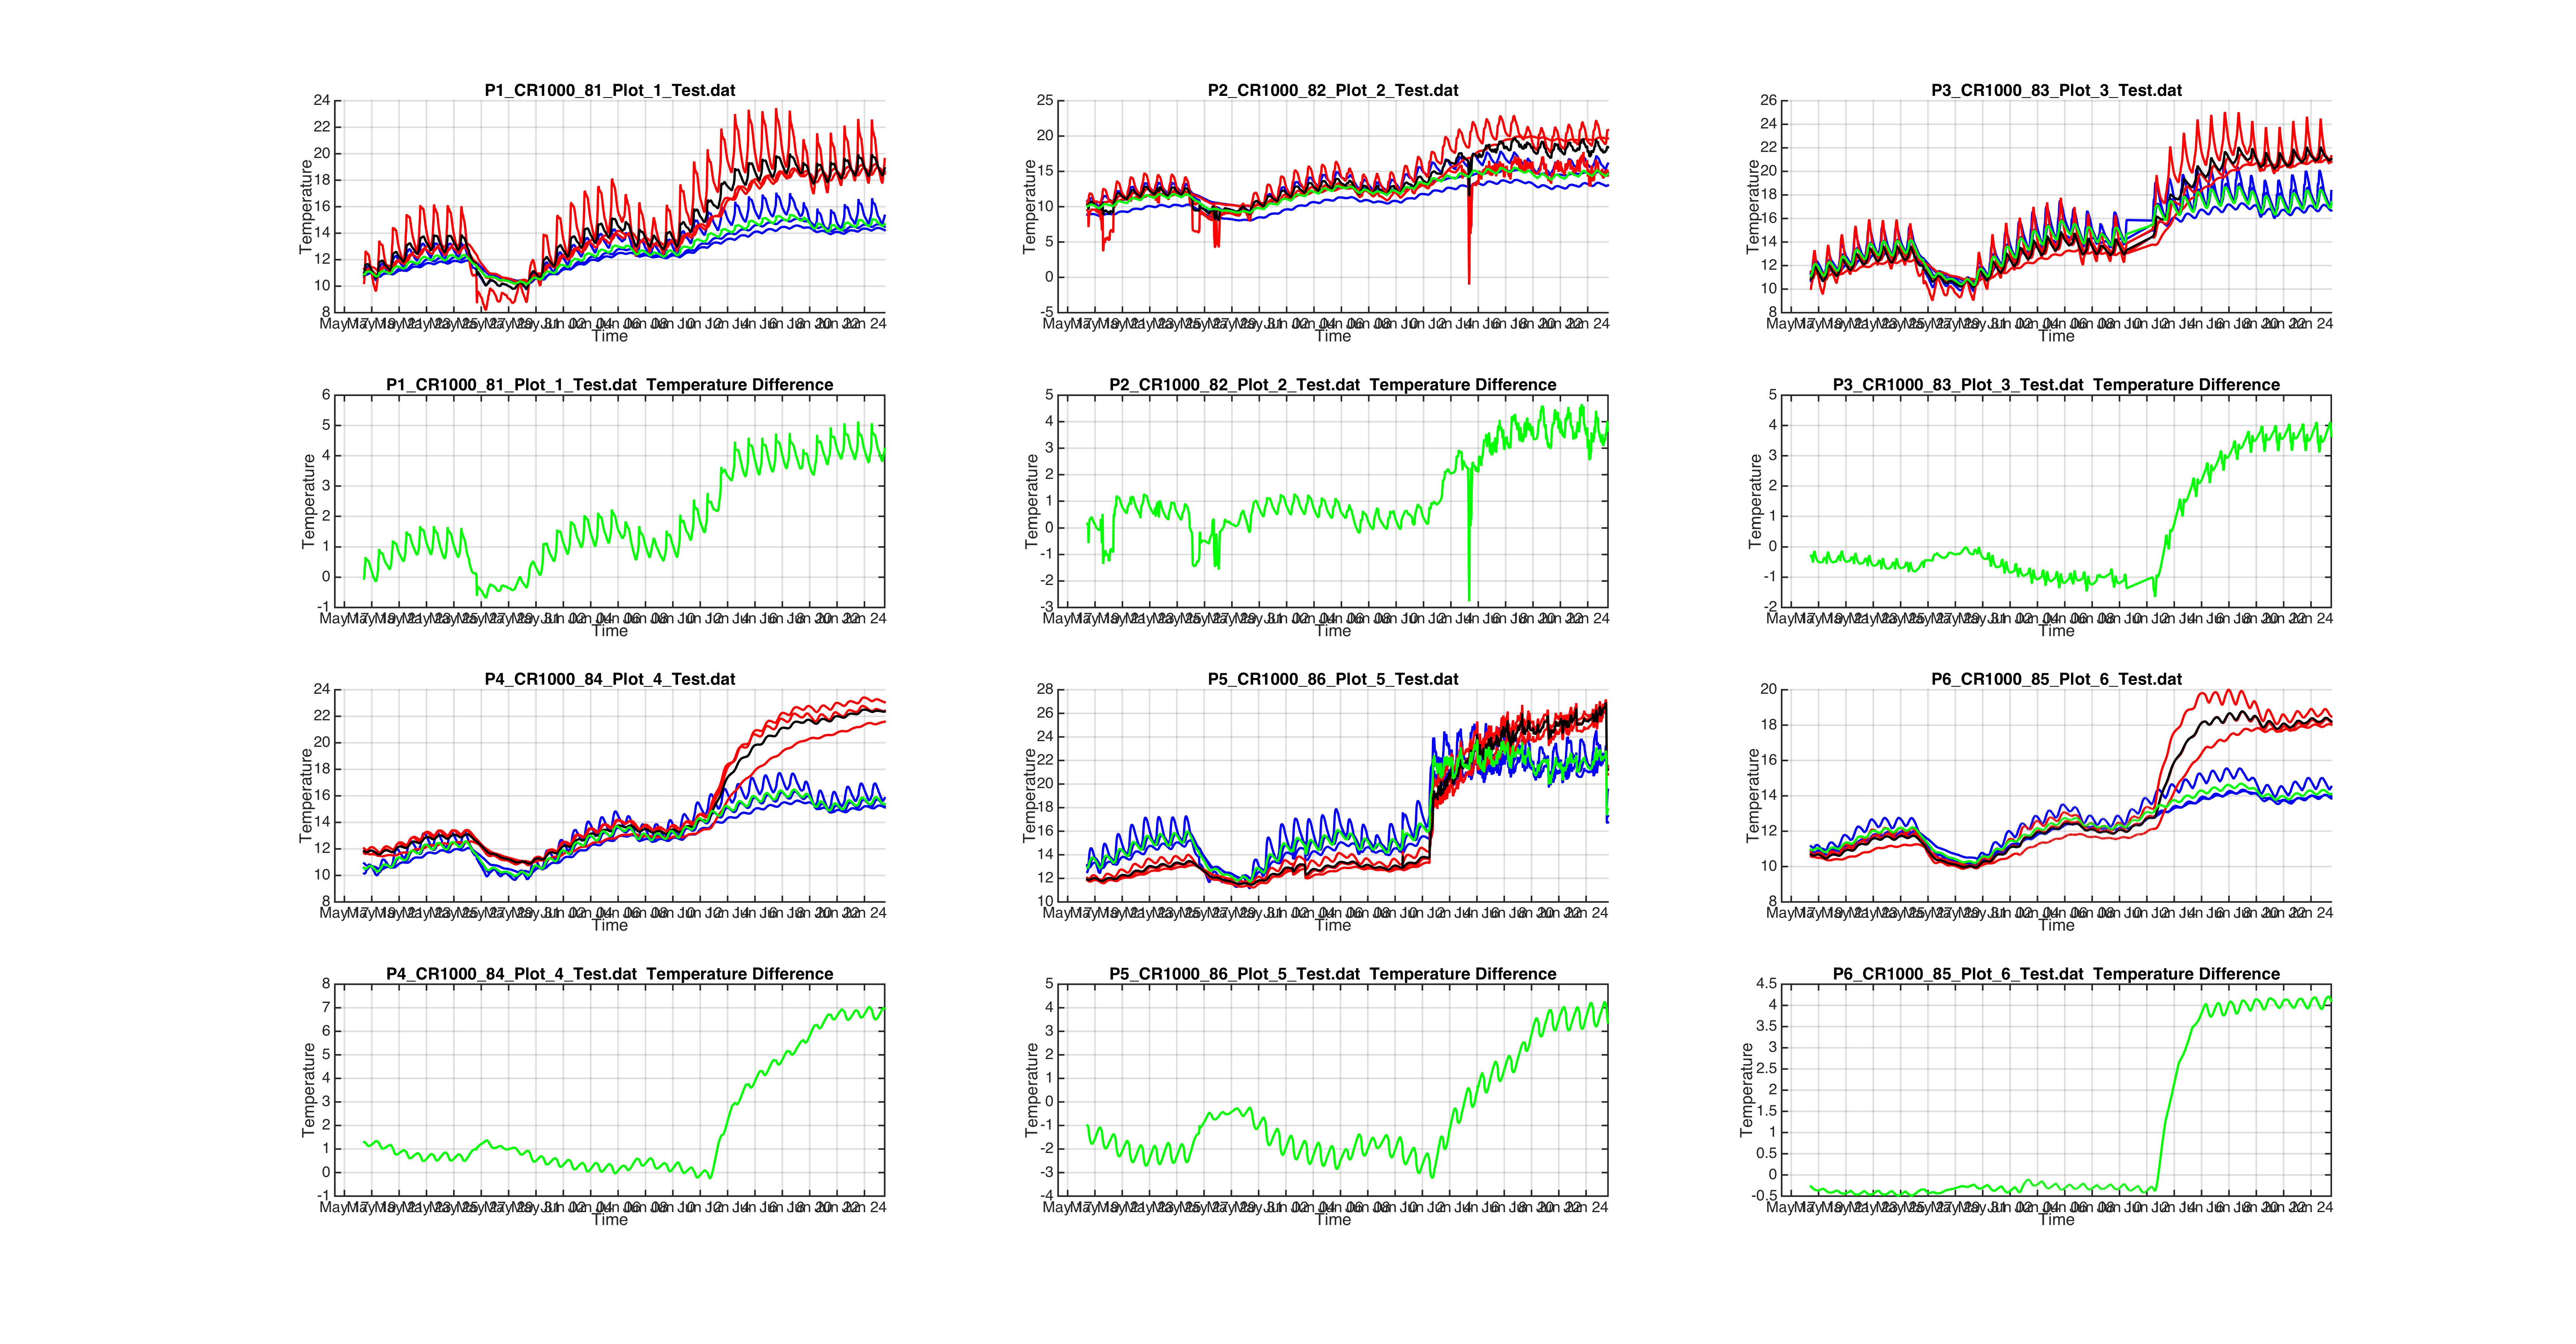
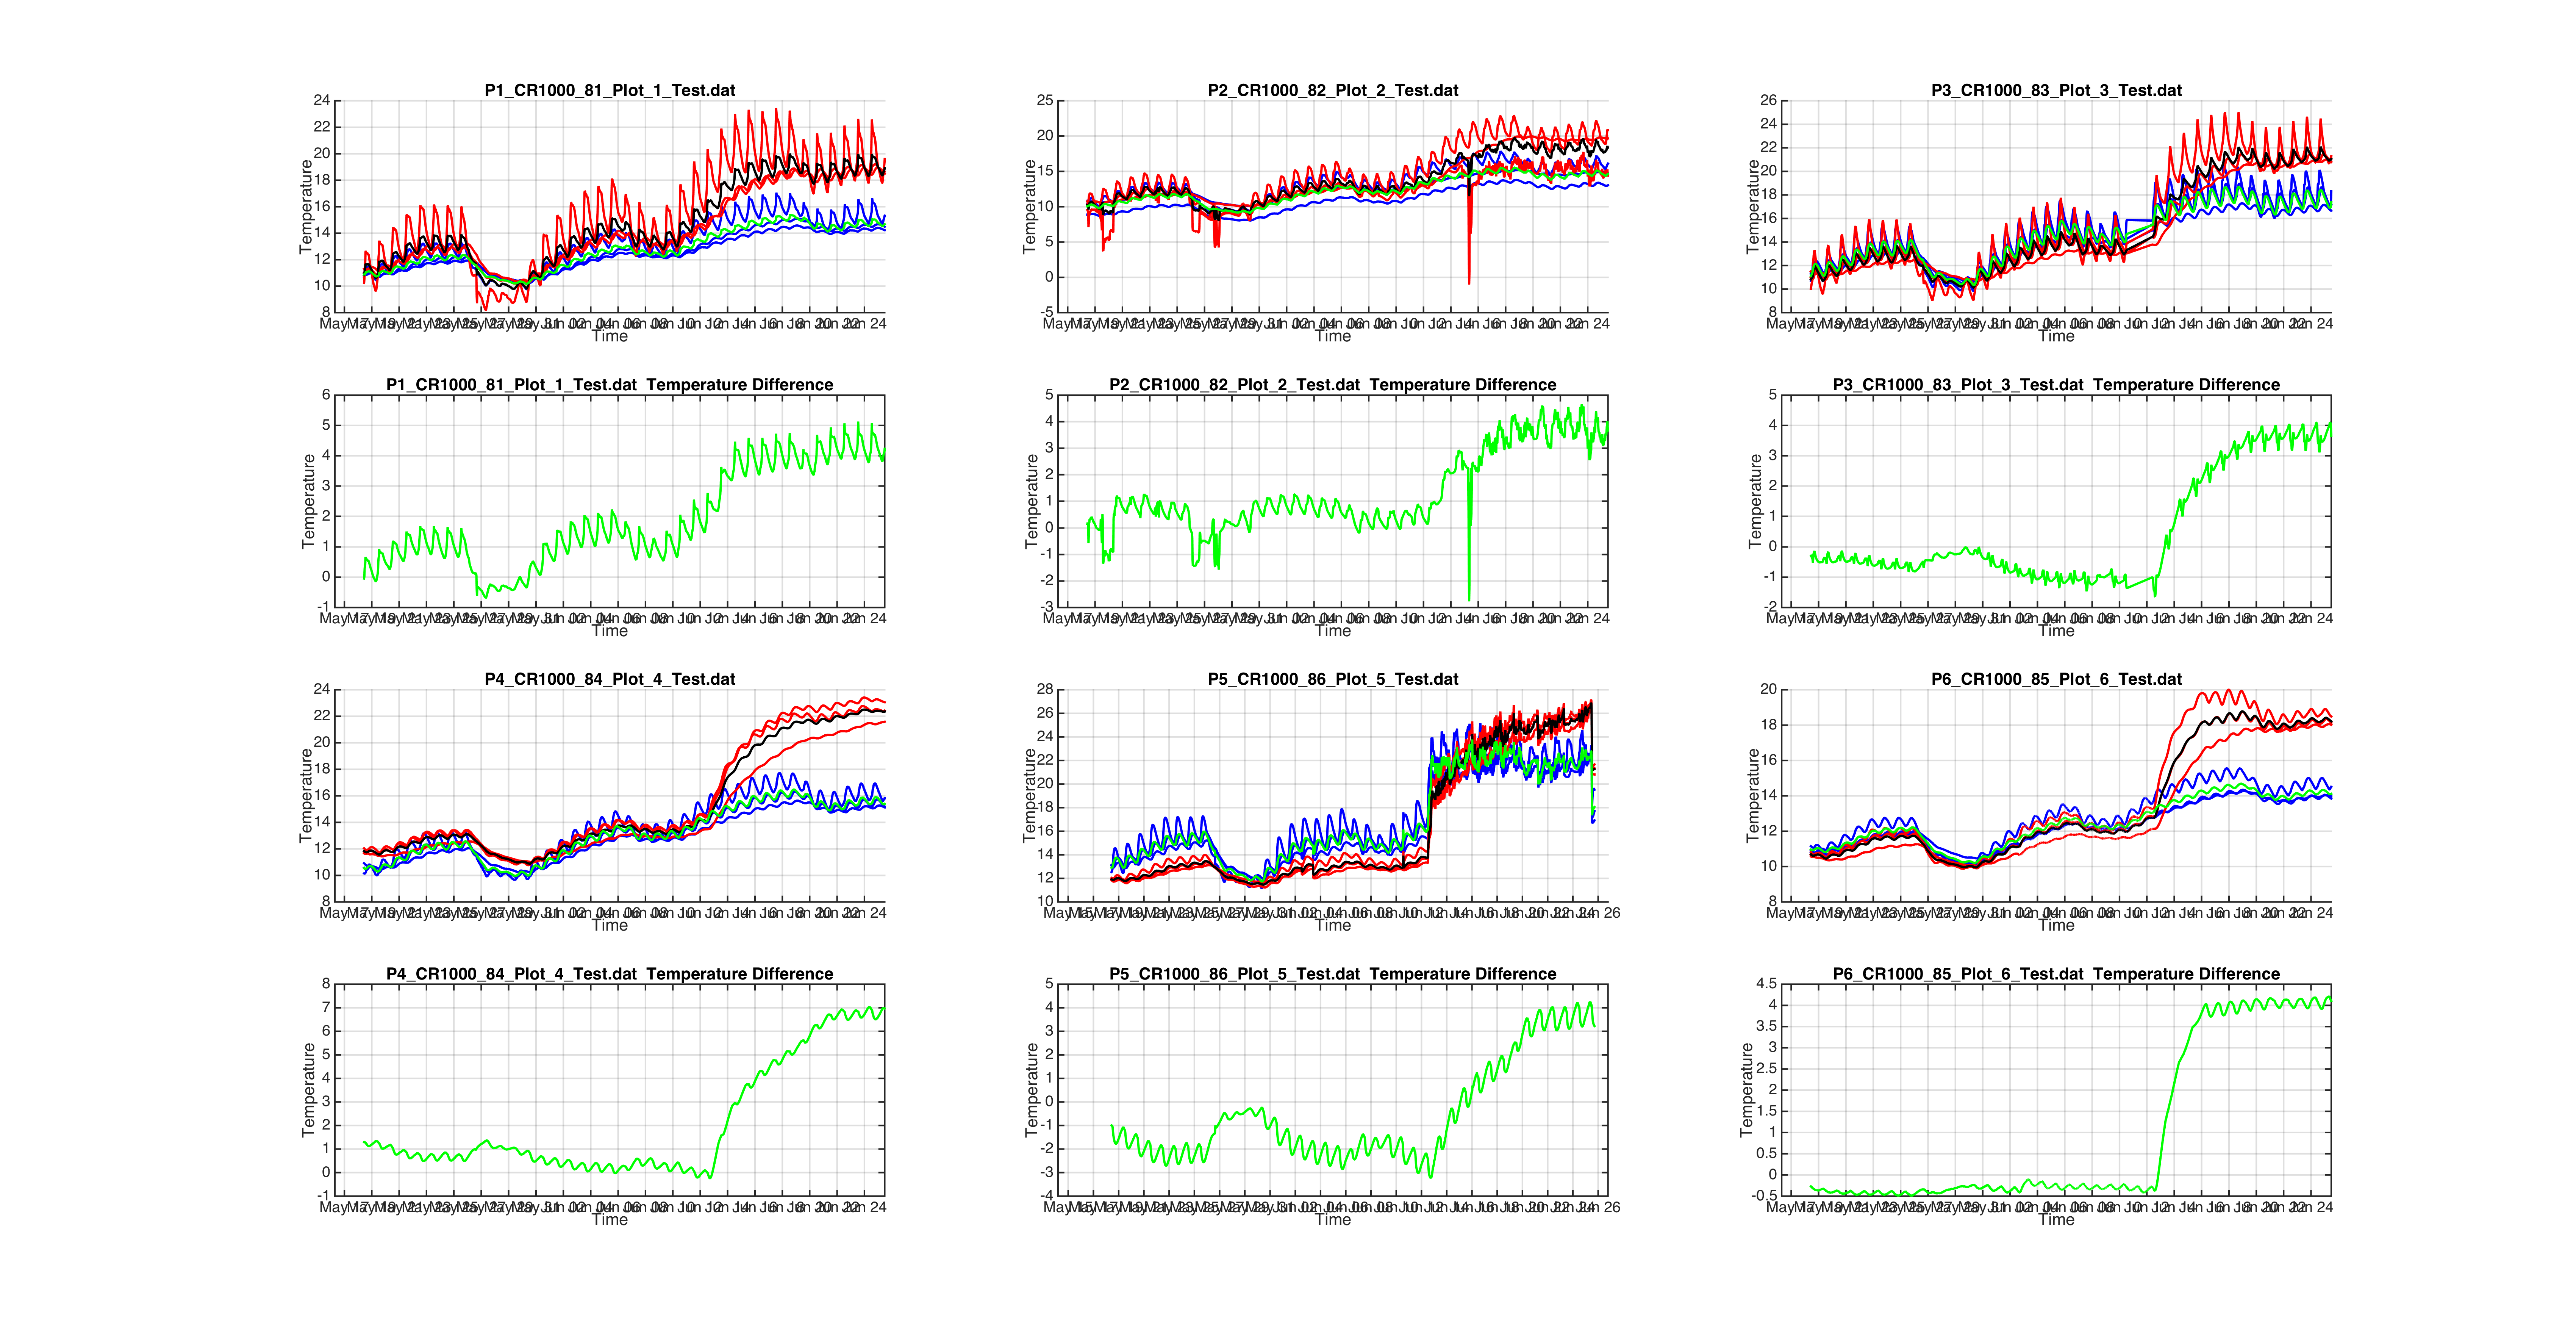
Update MATLAB plots

Changed region(s): [[0.4053, 0.4962, 0.6235, 0.6823], [0.4053, 0.7443, 0.6235, 0.8994]]

diff --git a/index.html b/index.html
@@ -11,21 +11,21 @@
 </head>
 <body>
   <h1>Blodgett Data Summary</h1>
-  <p style="text-align:center;">Last updated: 20260625_143318</p>
+  <p style="text-align:center;">Last updated: 20260625_170451</p>
 
   <div class="plot">
     <h2>Initial Heating / Temperature Summary</h2>
-    <img src="deep_temperature_summary.png?v=20260625_143318" alt="Temperature Summary">
+    <img src="deep_temperature_summary.png?v=20260625_170451" alt="Temperature Summary">
   </div>
 
   <div class="plot">
     <h2>Initial Heating / Temperature Summary</h2>
-    <img src="surface_temperature_summary.png?v=20260625_143318" alt="Temperature Summary">
+    <img src="surface_temperature_summary.png?v=20260625_170451" alt="Temperature Summary">
   </div>
 
   <div class="plot">
     <h2>Current Summary</h2>
-    <img src="current_summary.png?v=20260625_143318" alt="Current Summary">
+    <img src="current_summary.png?v=20260625_170451" alt="Current Summary">
   </div>
 </body>
 </html>